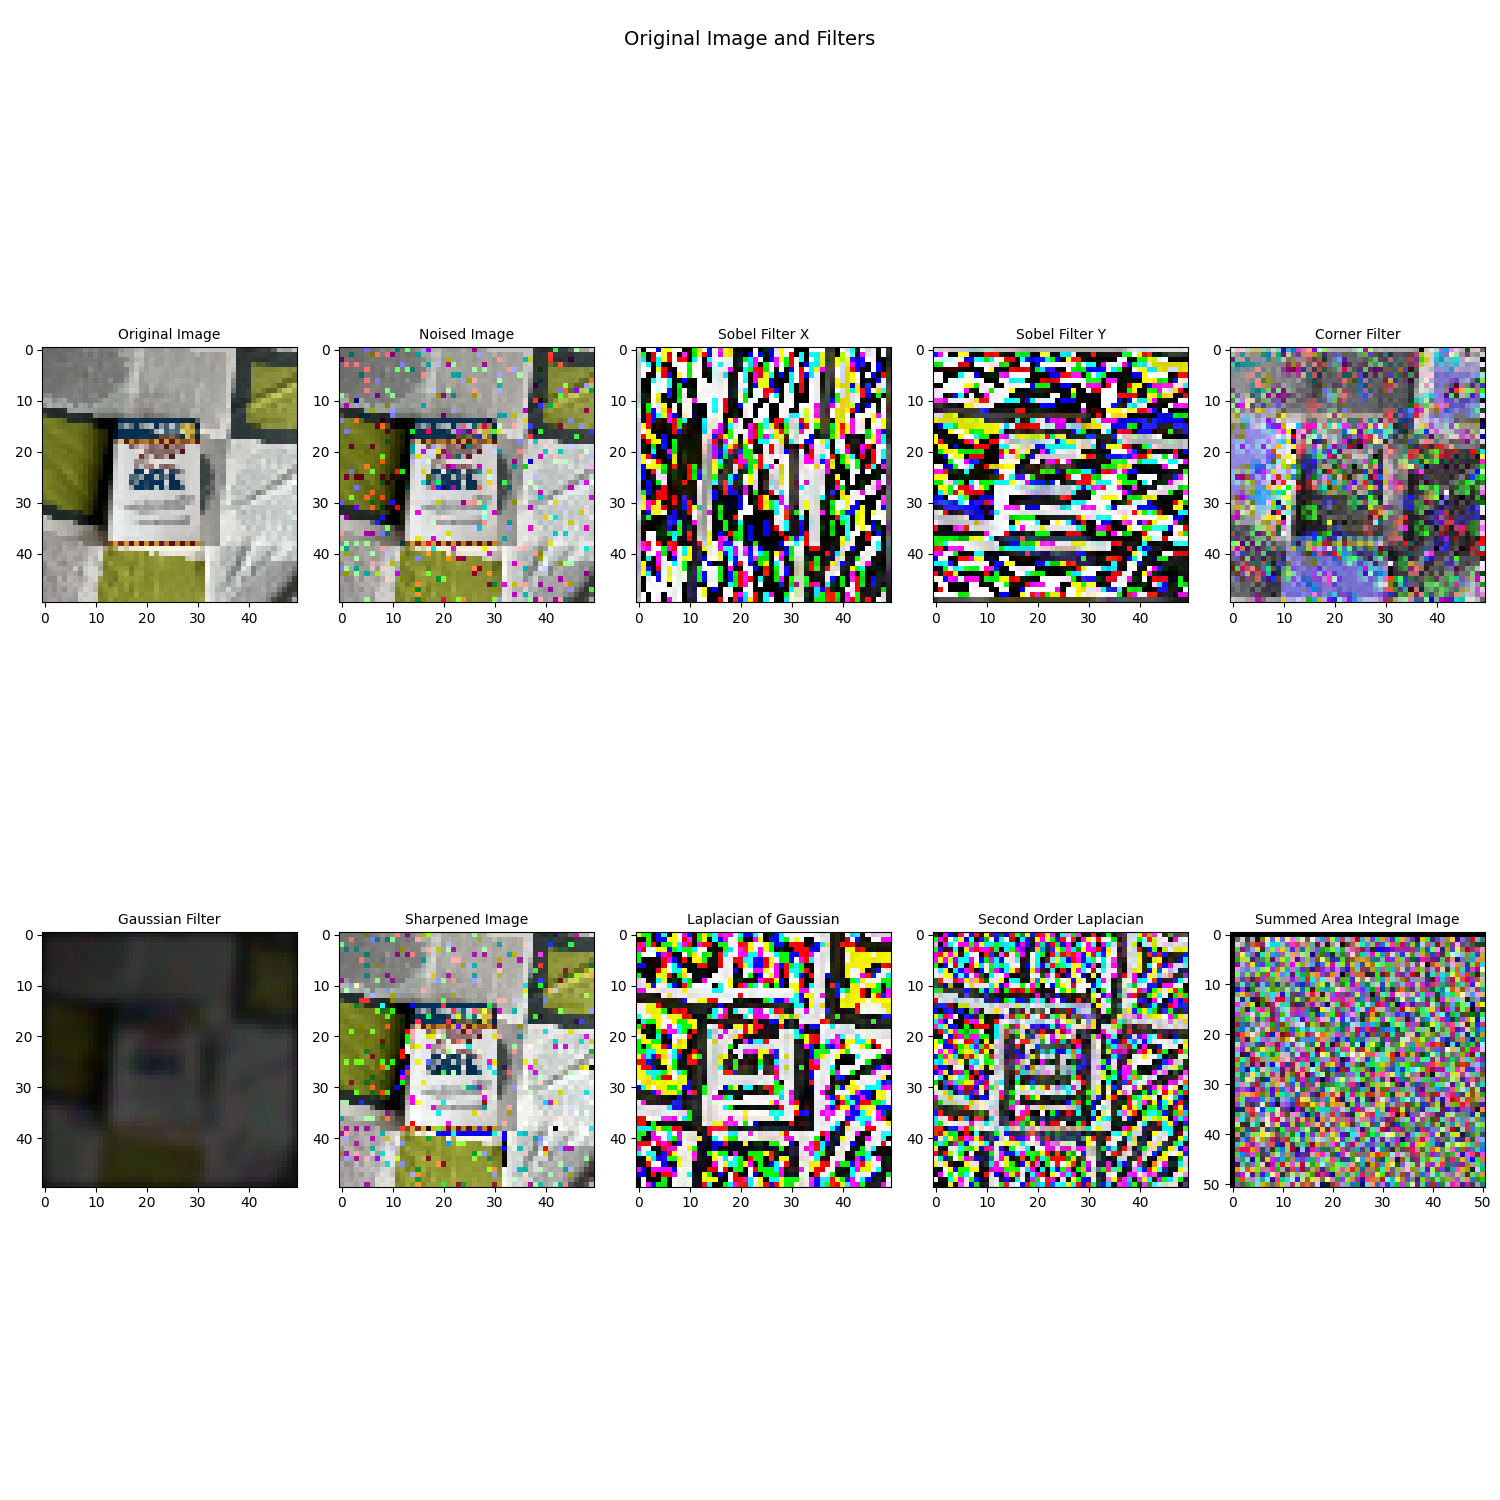
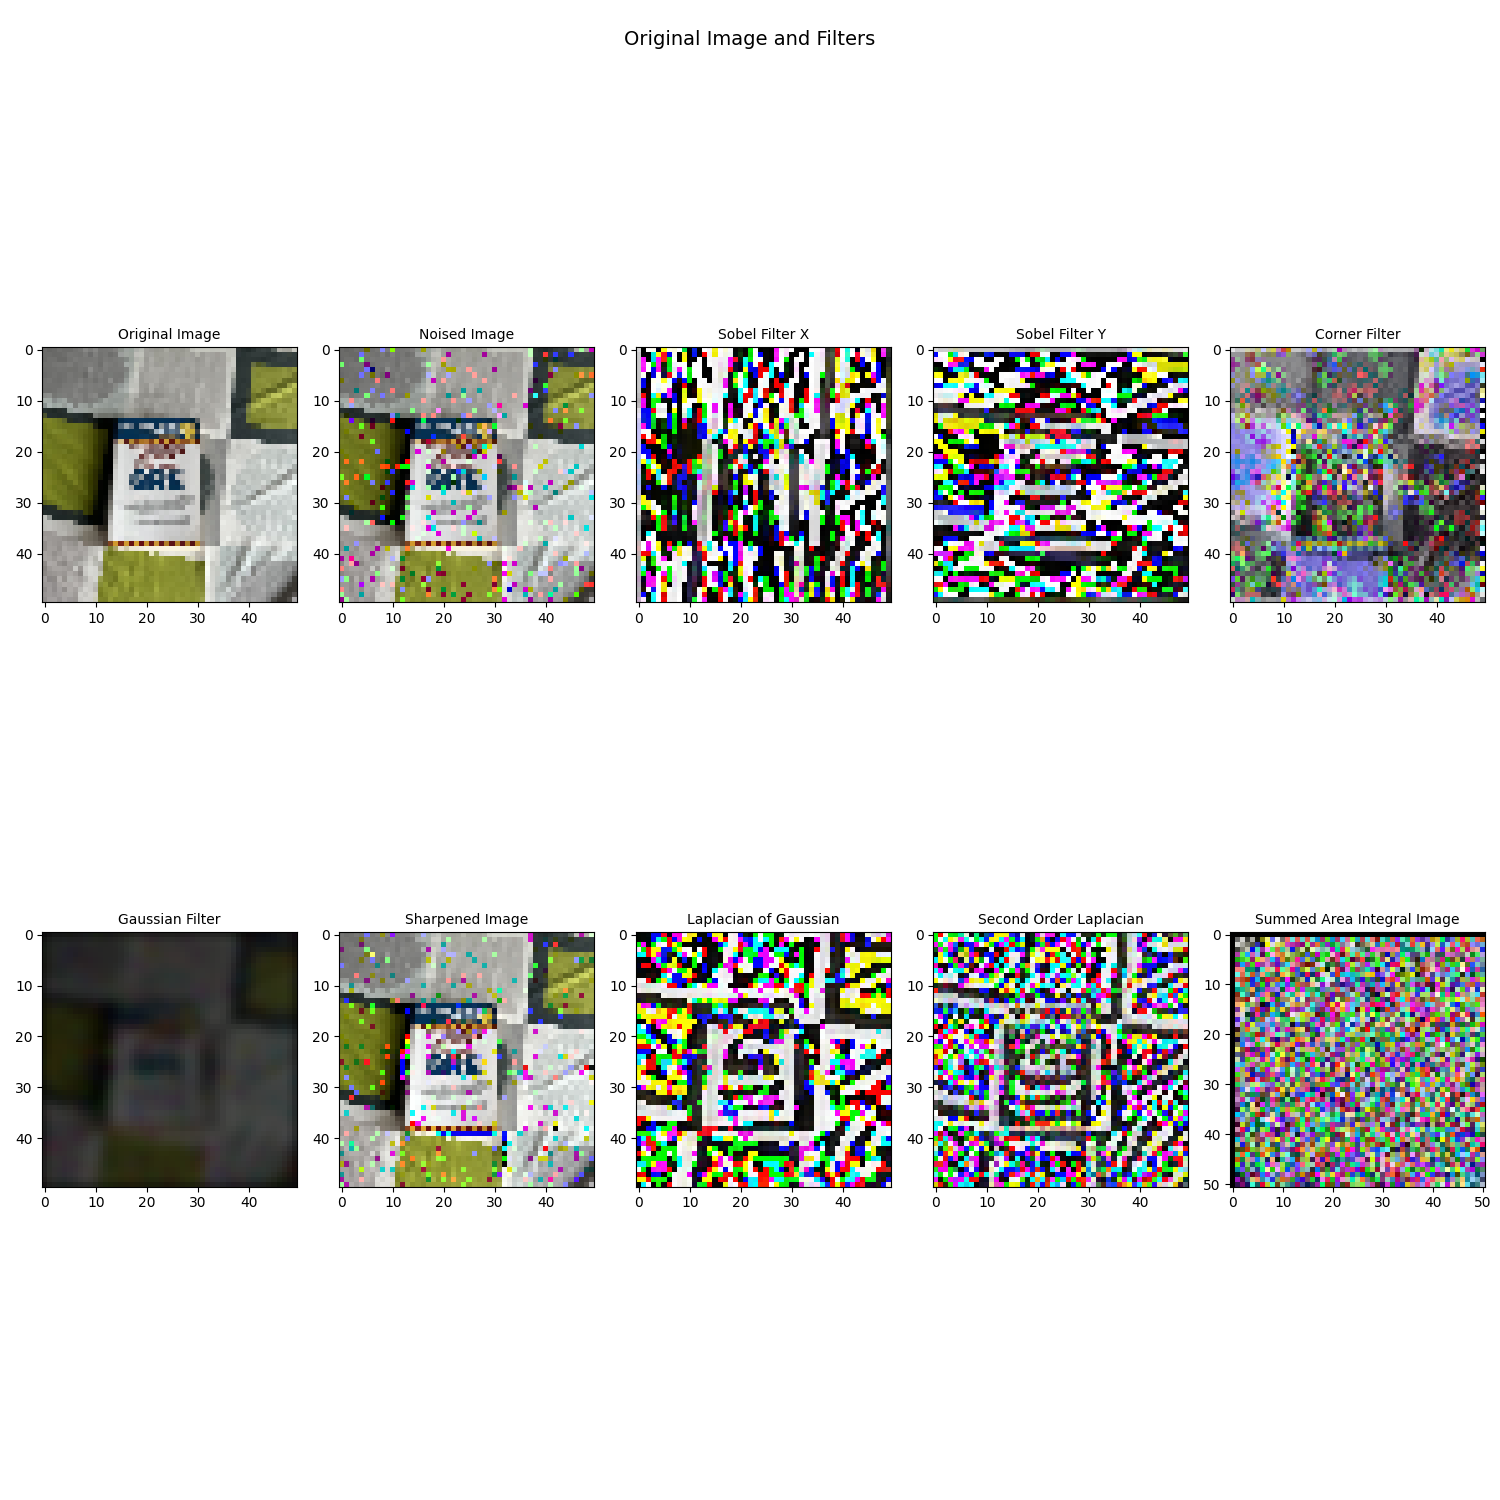
Update

Changed region(s): [[0.2147, 0.6133, 1.0, 0.7973], [0.4293, 0.2147, 1.0, 0.3987], [0.2147, 0.2147, 0.3987, 0.3987]]

diff --git a/image-processing/excercises/ex5-difference-keying.py b/image-processing/excercises/ex5-difference-keying.py
@@ -2,21 +2,20 @@ import cv2 as cv
 import numpy as np
 import os
 import matplotlib.pyplot as plt
-
+import scipy
 # Paths
 input_path = 'sample-images/'
 output_path = 'image-processing/filters/'
 
 # Read and resize the image
-img_bg = cv.imread(os.path.join(input_path, 'green-bg-1.jpg'), cv.IMREAD_COLOR)
-img = cv.imread(os.path.join(input_path, 'green-bg-2.jpg'), cv.IMREAD_COLOR)
-img_next = cv.imread(os.path.join(input_path, 'green-bg-3.jpg'), cv.IMREAD_COLOR)
+img_bg = cv.imread(os.path.join(input_path, 'view-bg.jpg'), cv.IMREAD_COLOR)
+img = cv.imread(os.path.join(input_path, 'view.jpg'), cv.IMREAD_COLOR)
 
 l = 1024
 
 img = cv.resize(img, (l, l))
 img_bg = cv.resize(img_bg, (l, l))
-img_next = cv.resize(img_next, (l, l))
+# img_next = cv.resize(img_next, (l, l))
 
 def compute_background(image_sequence):
     """
@@ -61,35 +60,39 @@ def classify_foreground(background_mean, background_variance, new_frame, thresho
     
     return foreground_mask
 
+background_mean, background_variance = compute_background(img_bg)
 
-# background_mean, background_variance = compute_background(img_bg)
-# foreground_mask = classify_foreground(background_mean, background_variance, img_next, threshold=50)
+def adjust_foreground_mask(foreground_mask):
+    # Create a mask for pixels where any R, G, or B value is < 100
+    # low_mask = np.any(foreground_mask < 200, axis=-1)
+    # Create a mask for pixels where any R, G, or B value is > 200
+    high_mask = np.any(foreground_mask > 200, axis=-1)
+    
+    # Set these pixels to 0
+    # foreground_mask[low_mask] = 0
+    # Set these pixels to 255
+    foreground_mask[high_mask] = 255
+    
+    return foreground_mask
 
-foreground_mask = img_next - img_bg
+
+corner_filter = np.array([[-1, -2, 1], 
+                          [-2, 4, -2], 
+                          [-1, -2, 1]]) / 4
+
+def apply_filter_to_color_image(image, filter_kernel):
+    channels = cv.split(image)
+    filtered_channels = [scipy.signal.convolve2d(channel, filter_kernel, mode='same') for channel in channels]
+    return cv.merge(filtered_channels)
+
+foreground_mask = abs(img - img_bg)
 foreground_mask = np.uint8(foreground_mask)
 
-import torch
+# foreground_mask = adjust_foreground_mask(foreground_mask)
 
-import segmentation_models_pytorch as smp
+foreground_mask = apply_filter_to_color_image(adjust_foreground_mask(foreground_mask), corner_filter).astype(np.uint8)
 
-in_channels = 3 
-out_channels = 1
-
-model = smp.Unet(encoder_name="resnet34", in_channels=in_channels, classes=out_channels, encoder_weights="imagenet")
-
-                 
-image_tensor = torch.tensor(img_next, dtype=torch.float32).permute(2, 0, 1).unsqueeze(0)
-
-# Perform inference to get the segmentation mask
-with torch.no_grad():
-    output = model(image_tensor)
-
-# Post-process the output to get the segmentation mask
-# You may need to apply thresholding or other operations to get a binary mask
-segmentation_mask = output.squeeze().cpu().numpy()
-segmentation_mask = np.where(segmentation_mask > 0.5, 255, 0)  # Example thresholding, adjust as needed
-
-
+# print(foreground_mask)
 
 plt.subplot(1,3,1)
 plt.imshow(cv.cvtColor(img, cv.COLOR_BGR2RGB))
@@ -100,7 +103,7 @@ plt.imshow(cv.cvtColor(img_bg, cv.COLOR_BGR2RGB))
 plt.title('Backround Image')
 
 plt.subplot(1,3,3)
-plt.imshow(segmentation_mask, cmap='gray')
+plt.imshow(cv.cvtColor(foreground_mask, cv.COLOR_BGR2RGB))
 plt.title('Background Removed Image')
 
 plt.show()
